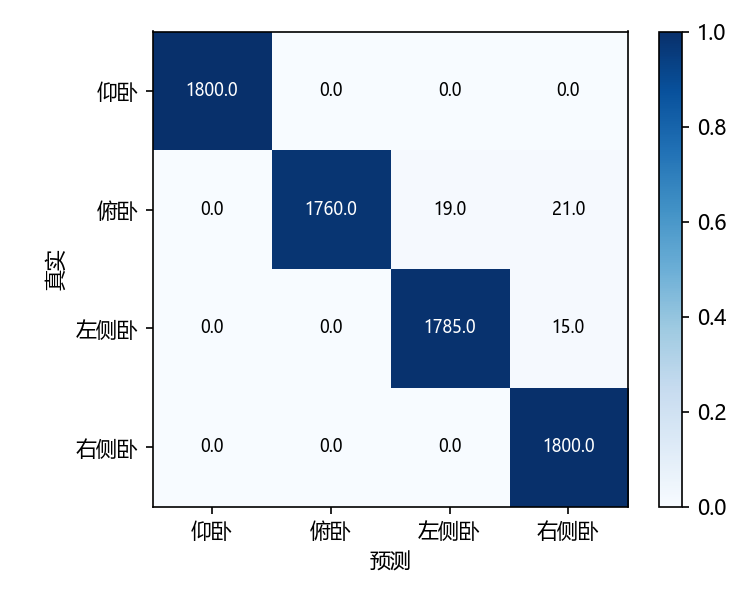
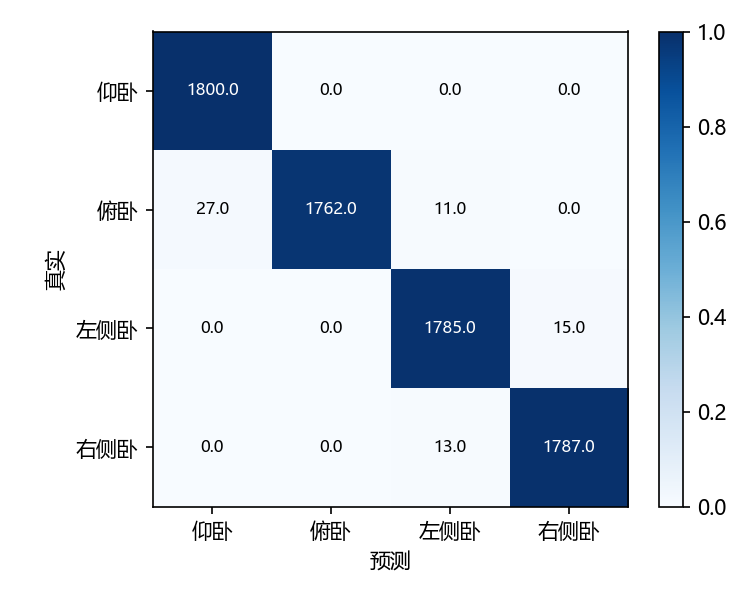
docs: publish recalibrated posture metrics

diff --git a/docs/睡姿识别-数据格式与接口.md b/docs/睡姿识别-数据格式与接口.md
@@ -85,34 +85,32 @@ SVM 使用原始训练特征（下采样后）不增强。实现：`sleep_postur
 
 ## 7. 评价结果
 
-> 校准变更说明：下列已提交指标由修复前的 `÷255` 预处理生成，仅保留为历史实验记录。
-> 在本次改用 10-bit 归一化后，最终验收前必须使用当前代码重新执行完整 33 用户、15 epoch
-> 训练，并用新生成的 `results/` 替换历史结果。
+> 本结果已使用当前 10-bit（除以 1023 并裁剪）预处理，在完整 33 用户数据集上重新生成。
 
 运行 `python -m sleep_posture.train --epochs 15`，按 23 名训练用户训练、10 名**未见过的**
 测试用户（7200 帧）评估。三种算法均超过课程 95% 准确率要求：
 
 | 模型 | 测试准确率 | 宏平均精确率 | 宏平均召回率 | 宏平均 F1 |
 | --- | --- | --- | --- | --- |
-| **CNN（2D 卷积）** | **99.24%** | 0.9925 | 0.9924 | 0.9924 |
-| MLP（前馈） | 98.21% | 0.9822 | 0.9821 | 0.9821 |
+| **CNN（2D 卷积）** | **99.08%** | 0.9909 | 0.9908 | 0.9908 |
+| MLP（前馈） | 97.61% | 0.9762 | 0.9761 | 0.9761 |
 | SVM（RBF） | 97.82% | 0.9784 | 0.9782 | 0.9782 |
 
 最优模型 CNN 的逐类指标与混淆矩阵（每类 1800 测试帧）：
 
 | 类别 | 精确率 | 召回率 | F1 |
 | --- | --- | --- | --- |
-| 仰卧 | 1.0000 | 1.0000 | 1.0000 |
-| 俯卧 | 1.0000 | 0.9778 | 0.9888 |
-| 左侧卧 | 0.9895 | 0.9917 | 0.9906 |
-| 右侧卧 | 0.9804 | 1.0000 | 0.9901 |
+| 仰卧 | 0.9852 | 1.0000 | 0.9926 |
+| 俯卧 | 1.0000 | 0.9789 | 0.9893 |
+| 左侧卧 | 0.9867 | 0.9917 | 0.9892 |
+| 右侧卧 | 0.9917 | 0.9928 | 0.9922 |
 
 | 真实＼预测 | 仰卧 | 俯卧 | 左侧卧 | 右侧卧 |
 | --- | --- | --- | --- | --- |
 | 仰卧 | 1800 | 0 | 0 | 0 |
-| 俯卧 | 0 | 1760 | 19 | 21 |
+| 俯卧 | 27 | 1762 | 11 | 0 |
 | 左侧卧 | 0 | 0 | 1785 | 15 |
-| 右侧卧 | 0 | 0 | 0 | 1800 |
+| 右侧卧 | 0 | 0 | 13 | 1787 |
 
 完整指标与三模型混淆矩阵图见 [`results/`](../results/sleep_posture_results.json)
 与 `results/confusion_matrix_*.png`。误差主要出现在俯卧与左/右侧卧之间的少数帧，
